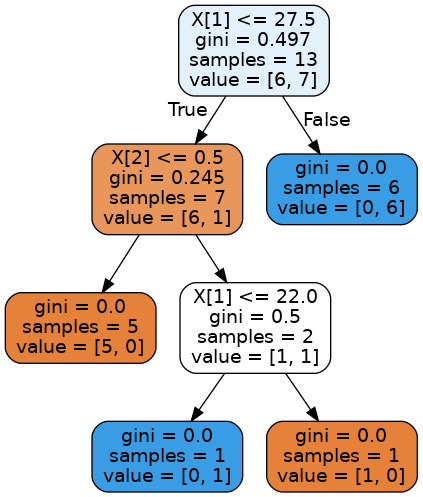
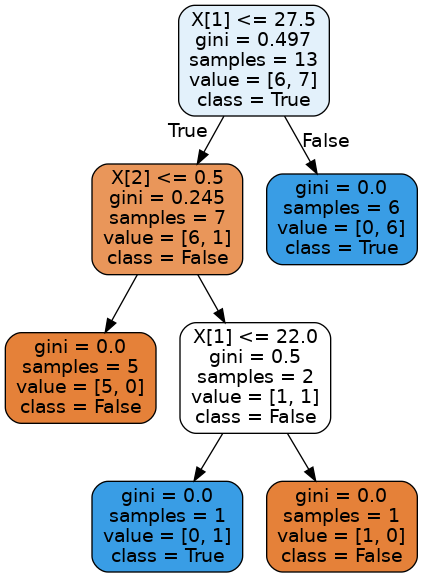
commit

diff --git a/graphic/kaggle/titanik/ti.py b/graphic/kaggle/titanik/ti.py
@@ -18,9 +18,11 @@ X = data.loc[:,["high", "size","autolock"]]
 
 clf = DecisionTreeClassifier()
 clf.fit(X, y)
+print(clf.classes_)
 
 dot_data = export_graphviz(
     clf,
+    class_names=["False", "True"],
     out_file=None,
     filled=True,
     rounded=True,
